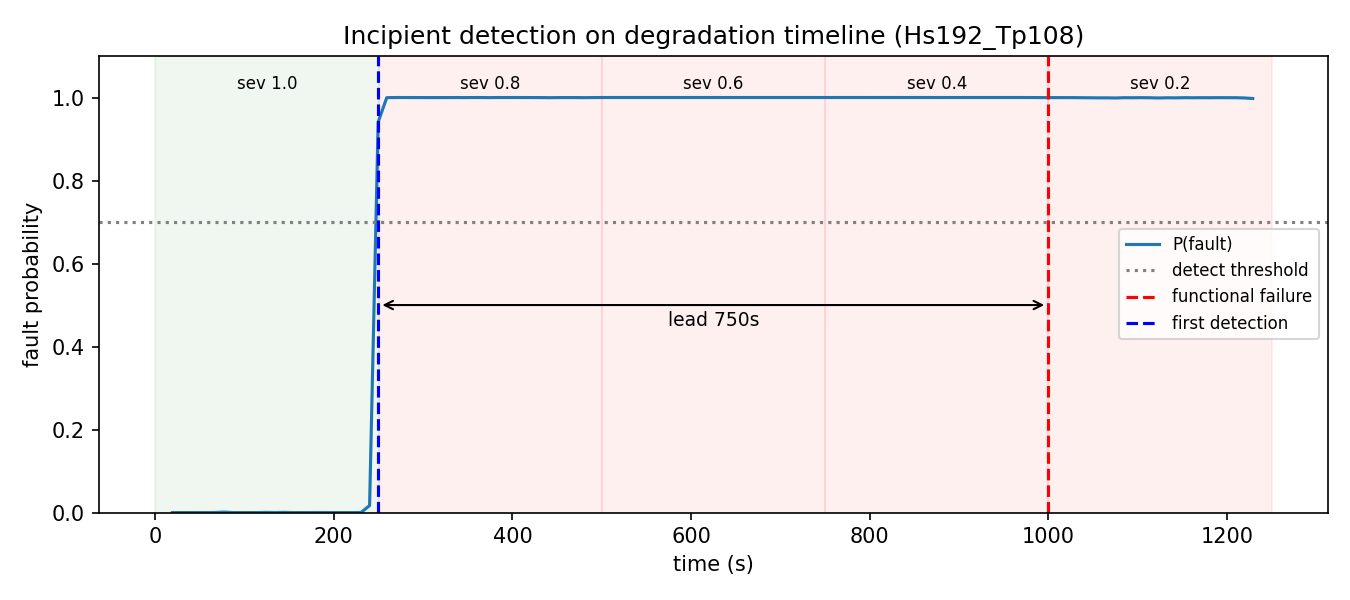
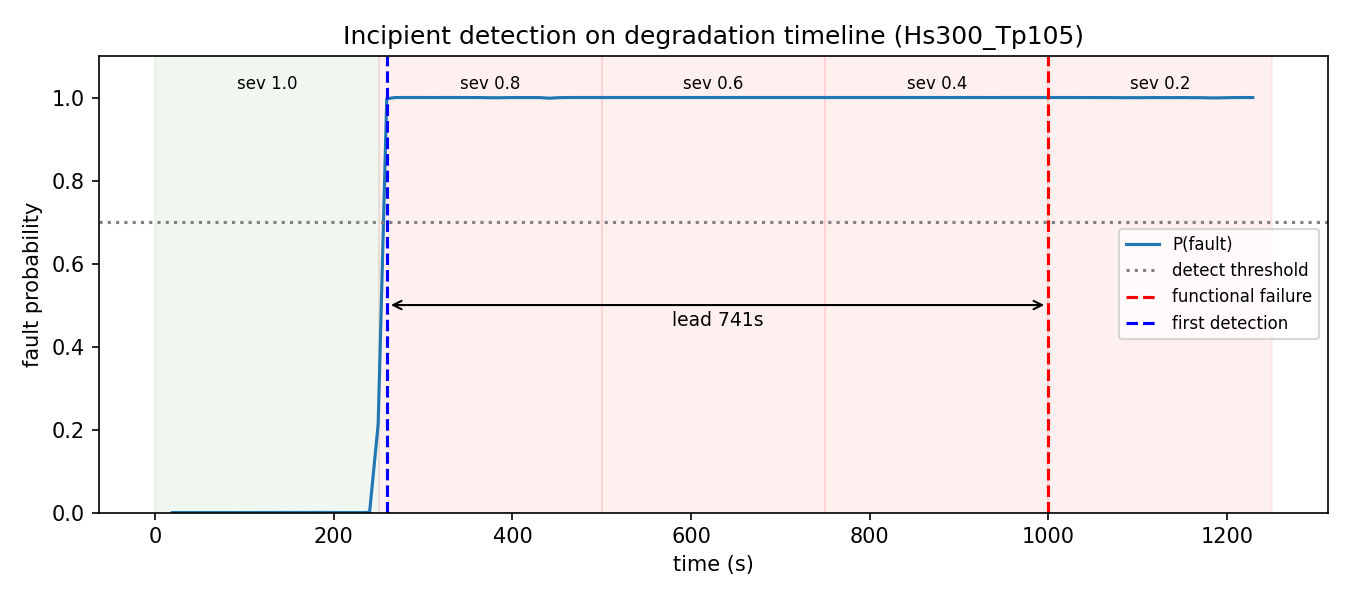
chore: re-run advanced experiments on definitive real-spectra dataset
All results now from one consistent dataset (real NDBC spectra): explainability (mooring->surge, PTO->vrel/Fpto), unseen-fault ROC-AUC 0.63-0.75, LOSO 0.999, lead-time 741s (74% before failure)

diff --git a/tools/run_leadtime.py b/tools/run_leadtime.py
@@ -28,7 +28,7 @@ from src.windowing import CHANNELS, build_dataset
 
 log = get_logger("leadtime")
 
-TARGET_SS = "Hs192_Tp108"          # sea state used for the degradation timeline (held out)
+TARGET_SS = "Hs300_Tp105"          # sea state used for the degradation timeline (held out)
 STAGES = ["healthy_sev100", "pto_damping_loss_sev80", "pto_damping_loss_sev60",
           "pto_damping_loss_sev40", "pto_damping_loss_sev20"]
 SEV = [1.0, 0.8, 0.6, 0.4, 0.2]    # nominal severity per stage